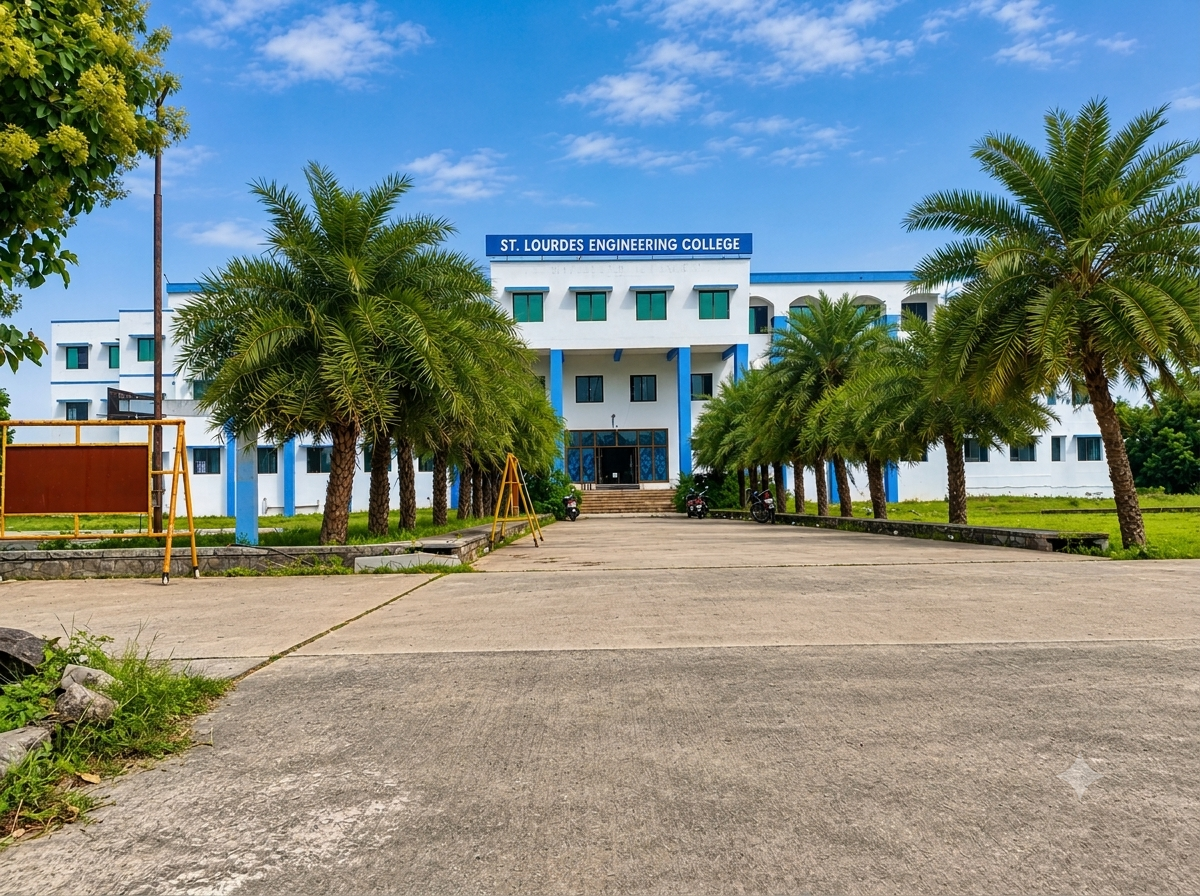
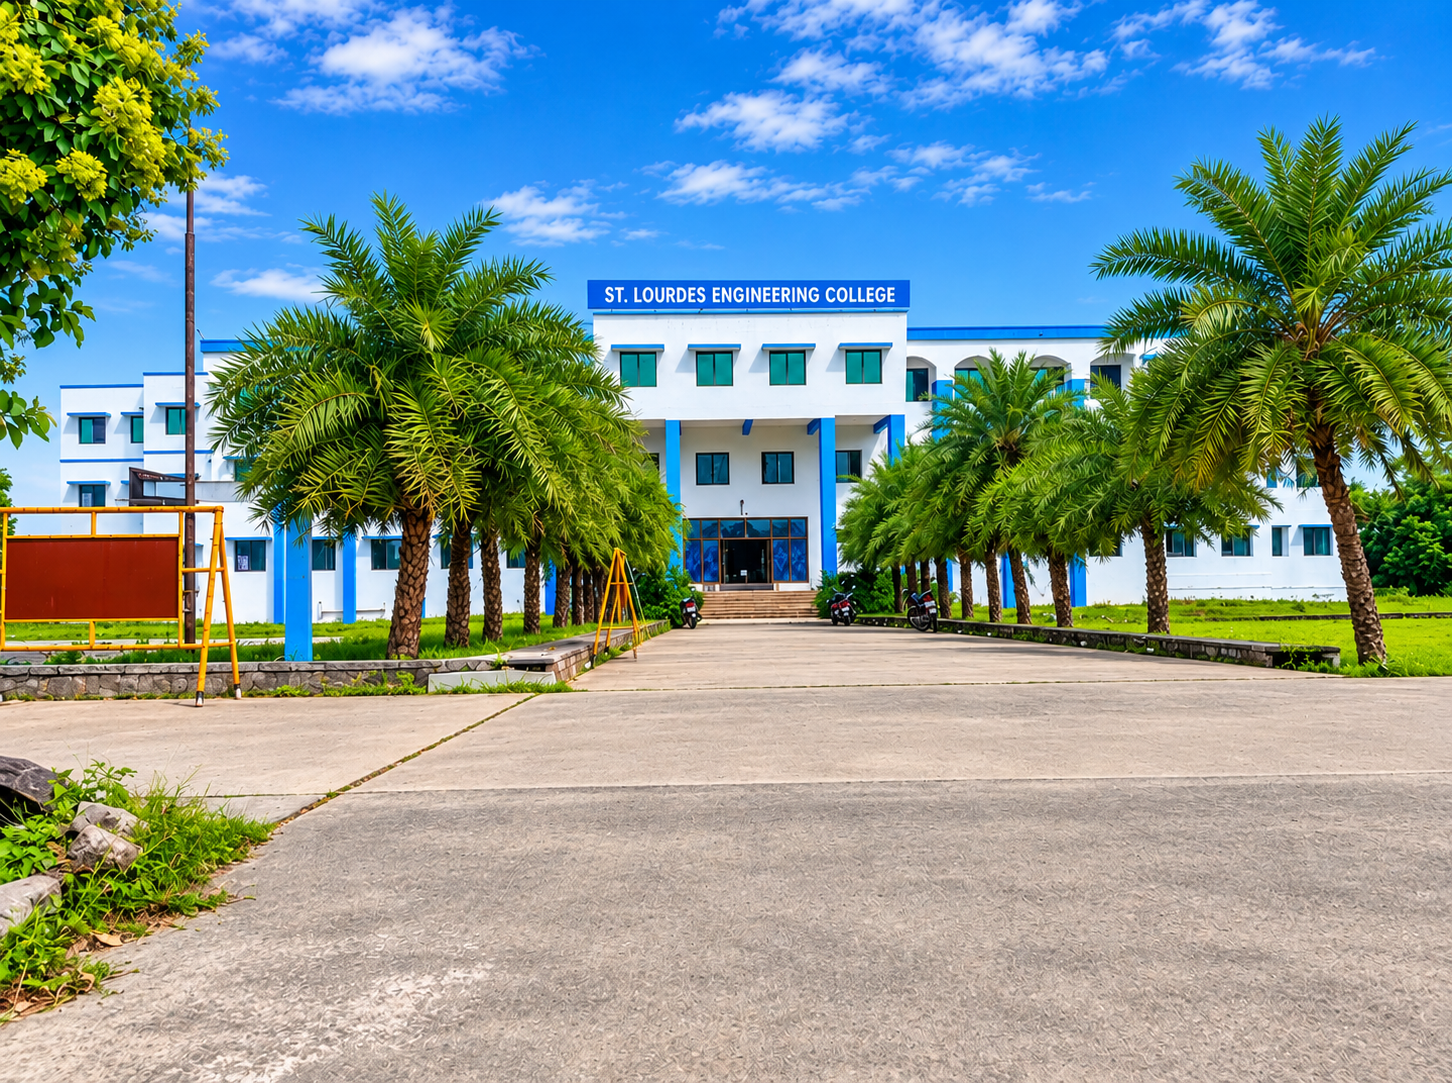
Update committee pages and women empowerment section

diff --git a/src/pages/AntiRaggingCommittee.tsx b/src/pages/AntiRaggingCommittee.tsx
@@ -9,6 +9,7 @@ import {
   GraduationCap,
   ShieldAlert,
   Users,
+  Crown,
 } from "lucide-react";
 
 type CommitteeMember = {
@@ -23,66 +24,54 @@ const members: CommitteeMember[] = [
   {
     sno: 1,
     name: "Dr. B. R. Ramesh Bapu.",
-    designation: "Head of the Institution",
+    designation: "Principal",
     position: "Convenor",
     type: "convenor",
   },
   {
     sno: 2,
-    name: "Inspector Of Police – Kundrathur Police station",
-    designation: "Inspector of Police.",
-    position: "Member",
+    name: "Dr. J. Sivamurugan",
+    designation: "HoD / CSE ",
+    position: "Co-ordinator",
   },
   {
     sno: 3,
-    name: "Mr.Joseph Emmanuel S",
-    designation: "NGO",
+    name: "Mrs. V. Suvarnavani",
+    designation: "HoD / ECE",
     position: "Member",
   },
   {
     sno: 4,
-    name: "Mr. A. Mosses",
-    designation: "Senior Faculty",
+    name: "Mr.S.Hemanth Prasath ",
+    designation: "Assistant Professor",
     position: "Member",
   },
   {
     sno: 5,
-    name: "Mr. J.Sivamurugan",
-    designation: "Senior Faculty",
+    name: "Mr.M.John S Kumar",
+    designation: "HoD / Cyber Security  ",
     position: "Member",
   },
   {
     sno: 6,
-    name: "Mrs. V.Suvarnavani",
-    designation: "Senior Faculty",
+    name: "Mr.A.Sivakumar ",
+    designation: "Assistant Professor",
     position: "Member",
   },
   {
     sno: 7,
-    name: "Mr.K. Dasaradhan",
-    designation: "Faculty",
+    name: "Mr.J.Maria Lenin Prathap ",
+    designation: "HoD /  S&H",
     position: "Member",
   },
   {
     sno: 8,
-    name: "Mr. R. Kumaresh",
-    designation: "III year",
-    position: "Student Representative",
-    type: "student",
-  },
-  {
-    sno: 9,
-    name: "Ms. R. Bagavathy sen",
-    designation: "III year",
-    position: "Student Representative",
-    type: "student",
-  },
-  {
-    sno: 10,
-    name: "Mr. Rajendran",
-    designation: "Non Teaching",
+    name: "Mrs.C.Karthiga",
+    designation: "Assistant Professor",
     position: "Member",
+    
   },
+
 ];
 
 export default function AntiRaggingCommittee() {
@@ -286,13 +275,14 @@ export default function AntiRaggingCommittee() {
 
                   <td>{member.designation}</td>
 
-                  <td>
-                    <span
-                      className={`ar-position ${member.type || "member"}`}
-                    >
-                      {member.position}
-                    </span>
-                  </td>
+                 <td>
+  <span className={`ar-position ${member.type || "member"}`}>
+    {member.type === "convenor" && (
+      <Crown size={12} fill="currentColor" />
+    )}
+    {member.position}
+  </span>
+</td>
                 </tr>
               ))}
             </tbody>
@@ -748,15 +738,17 @@ export default function AntiRaggingCommittee() {
           font-weight: 600;
         }
 
-        .ar-position {
-          display: inline-block;
-          padding: 5px 15px;
-          border-radius: 30px;
-          text-align: center;
-          white-space: nowrap;
-          font-size: 12px;
-          font-weight: 700;
-        }
+       .ar-position {
+  display: inline-flex;
+  align-items: center;
+  gap: 5px;
+  padding: 5px 15px;
+  border-radius: 30px;
+  text-align: center;
+  white-space: nowrap;
+  font-size: 12px;
+  font-weight: 700;
+}
 
         .ar-position.convenor {
           color: #4c3000;

diff --git a/src/pages/GrievanceCommittee.tsx b/src/pages/GrievanceCommittee.tsx
@@ -13,12 +13,13 @@ import {
 
 const members = [
   { name: 'Dr. B. R. Ramesh Bapu.', role: 'Principal', position: 'Convenor', featured: true },
-  { name: 'Mr. A. Mosses', role: 'Dean', position: 'Member' },
-  { name: 'Mr. J. Sivamurugan', role: 'HoD / CSE', position: 'Member' },
-  { name: 'Mrs. V. Suvarnavani', role: 'HoD / ECE', position: 'Member' },
-  { name: 'Mr. M. Senthilkumar', role: 'HoD / Civil', position: 'Member' },
-  { name: 'Mr. S.H. Syed Vasiyulla', role: 'HoD / EEE', position: 'Member' },
-  { name: 'Mrs. M. Meena', role: 'HoD / MBA', position: 'Member' },
+  { name: 'Dr. J. Sivamurugan', role: 'HoD / CSE', position: 'Co-ordinator' },
+  
+  { name: 'Mr. Nagendra Pramoths', role: 'Assistant Professor', position: 'Member' },
+  { name: 'Mr.J.Maria Lenin Prathap ', role: 'HoD /  S&H', position: 'Member' },
+  { name: 'Dr.S.Raja', role: 'Assistant Professor', position: 'Member' },
+  { name: 'Mr.M.John S Kumar', role: 'HoD / Cyber Security  ', position: 'Member' },
+  { name: 'Mrs.A.Agalya', role: 'Assistant Professor ', position: 'Member' },
 ];
 
 export default function GrievanceCommittee() {
@@ -108,7 +109,7 @@ export default function GrievanceCommittee() {
   isolation: isolate;
   display: flex;
   align-items: center;
-  min-height: 250px;
+  min-height: 280px;
  padding: 130px 0 42px;
           color: white;
           background:
@@ -737,12 +738,13 @@ export default function GrievanceCommittee() {
                     <p>{member.role}</p>
                   </div>
 
-                  {member.featured && (
-                    <span className="grc-role">
-                      <Crown size={12} fill="currentColor" />
-                      Convenor
-                    </span>
-                  )}
+              {(member.featured || member.position === 'Co-ordinator') && (
+  <span className="grc-role">
+    {member.featured && <Crown size={12} fill="currentColor" />}
+    {member.position}
+  </span>
+)}
+                 
                 </article>
               ))}
             </div>

diff --git a/src/pages/WomenEmpowermentCell.tsx b/src/pages/WomenEmpowermentCell.tsx
@@ -20,53 +20,61 @@ type CommitteeMember = {
 const committeeMembers: CommitteeMember[] = [
   {
     id: 1,
-    name: "Mrs. Suvarna Vani.V",
-    designation: "Asst. Professor",
+    name: "Mrs. V. Suvarnavani",
+    designation: "HoD",
     department: "ECE",
     position: "Chair Person",
   },
   {
     id: 2,
-    name: "Mrs. G.Geetha",
+    name: "Mrs.C.Karthiga",
     designation: "Asst. Professor",
     department: "IT",
     position: "Member",
   },
   {
     id: 3,
-    name: "Mrs. Shanthi C",
+    name: "Mrs. Swathisri",
     designation: "Asst. Professor",
-    department: "MECH",
+    department: "AIDS",
     position: "Member",
   },
   {
     id: 4,
-    name: "Mrs. Jenit Chinna Rani J",
+    name: "Mrs.A.Agalya",
     designation: "Asst. Professor",
     department: "S&H",
     position: "Member",
   },
   {
     id: 5,
-    name: "Mrs. Lavanya M",
+    name: "Mrs.V.Ezhilarasi",
     designation: "Asst. Professor",
     department: "ECE",
     position: "Member",
   },
   {
     id: 6,
-    name: "Mrs. M.Meena",
+    name: "Mrs.V. Maha ",
     designation: "Asst. Professor",
     department: "MBA",
     position: "Member",
   },
   {
     id: 7,
-    name: "Mrs. Sathya. M",
-    designation: "Office Staff",
-    department: "Office",
+    name: "Mrs.R.Ramya",
+    designation: "Asst. Professor",
+    department: "IT",
     position: "Member",
   },
+   {
+    id: 8,
+    name: "Mrs.K.Sharmiladevi",
+    designation: "Asst. Professor",
+    department: "CSE",
+    position: "Member",
+  },
+  
 ];
 
 const objectives = [
@@ -196,7 +204,7 @@ useEffect(() => {
       <section className="wec-about wec-container">
         <div className="wec-about-image">
           <img
-            src="/images/women-empowerment.jpg"
+            src="/about/womenemp.png"
             alt="Women students collaborating at college"
           />
           <div className="wec-image-decoration" />

diff --git a/src/pages/SexualHarassmentCommittee.tsx b/src/pages/SexualHarassmentCommittee.tsx
@@ -20,45 +20,41 @@ const committeeMembers = [
     position: 'Chair Person',
   },
   {
-    name: 'Mrs. C. Shanthi',
-    designation: 'AP',
+    name: 'Mrs.C.Karthiga',
+    designation: 'Assistant Professor',
     position: 'Member',
   },
   {
-    name: 'Mrs. G. Geetha',
-    designation: 'AP',
+    name: 'Mrs. Swathisri',
+    designation: 'Assistant Professor',
     position: 'Member',
   },
   {
-    name: 'Mrs. A. Cecilia Susana',
-    designation: 'AP',
+    name: 'Mrs.A.Agalya',
+    designation: 'Assistant Professor',
     position: 'Member',
   },
   {
-    name: 'Mrs. M. Meena',
-    designation: 'AP',
+    name: 'Mrs.V.Ezhilarasi',
+    designation: 'Assistant Professor',
     position: 'Member',
   },
   {
-    name: 'Mrs. J. Jenit Chinna rani',
-    designation: 'AP',
+    name: 'Mrs.V. Maha ',
+    designation: 'Assistant Professor',
     position: 'Member',
   },
   {
-    name: 'Ms. Devarapalli Lavanya',
-    designation: 'II Year',
-    position: 'Student Representative',
+    name: 'Mrs.R.Ramya',
+    designation: 'Assistant Professor',
+    position: 'Member',
   },
   {
-    name: 'Ms. Deepa Anuradha. A',
-    designation: 'III Year',
-    position: 'Student Representative',
+    name: 'Mrs.K.Sharmiladevi',
+    designation: 'Assistant Professor',
+    position: 'Member',
   },
-  {
-    name: 'Ms. Viyanna Shiney',
-    designation: 'III Year',
-    position: 'Student Representative',
-  },
+
 ];
 
 const supportPoints = [

diff --git a/src/components/NewsEventsSection.tsx b/src/components/NewsEventsSection.tsx
@@ -283,11 +283,11 @@ export default function NewsEventsSection() {
       return key ? key >= today : false;
     };
 
-    const news = unique
-      .filter((i) => i.type?.trim().toLowerCase() === 'news' && isVisible(i))
-      .sort((a, b) => new Date(b.date).getTime() - new Date(a.date).getTime())
-      .slice(0, MAX_ITEMS)
-      .map(toNewsItem);
+  const news = unique
+  .filter((i) => i.type?.trim().toLowerCase() === 'news')
+  .sort((a, b) => new Date(b.date).getTime() - new Date(a.date).getTime())
+  .slice(0, MAX_ITEMS)
+  .map(toNewsItem);
 
     const events = unique
       .filter((i) => i.type?.trim().toLowerCase() === 'event' && isVisible(i))
